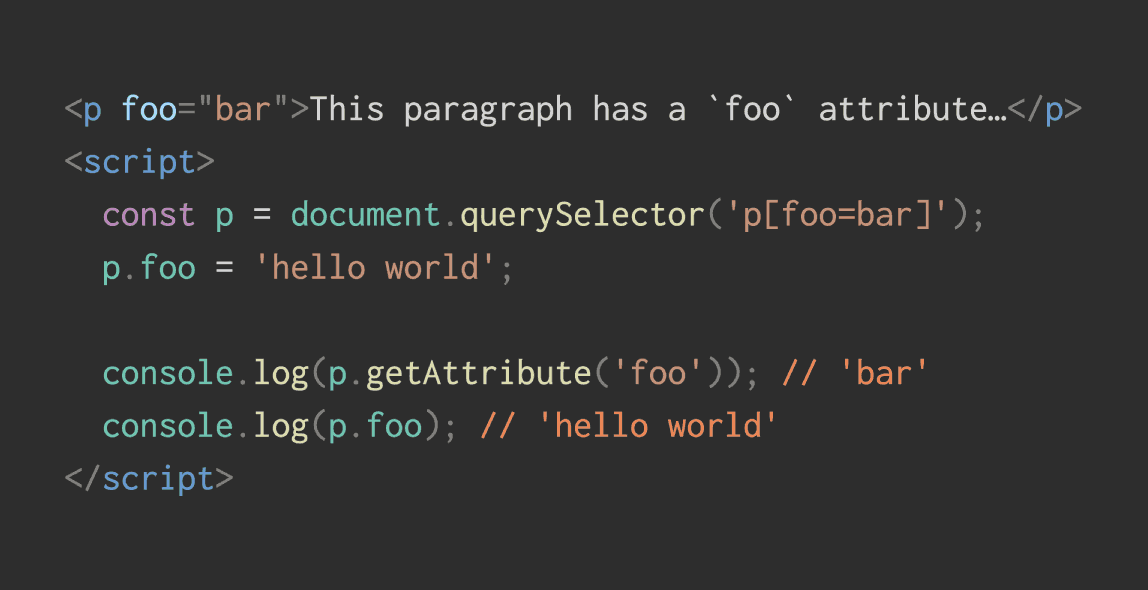
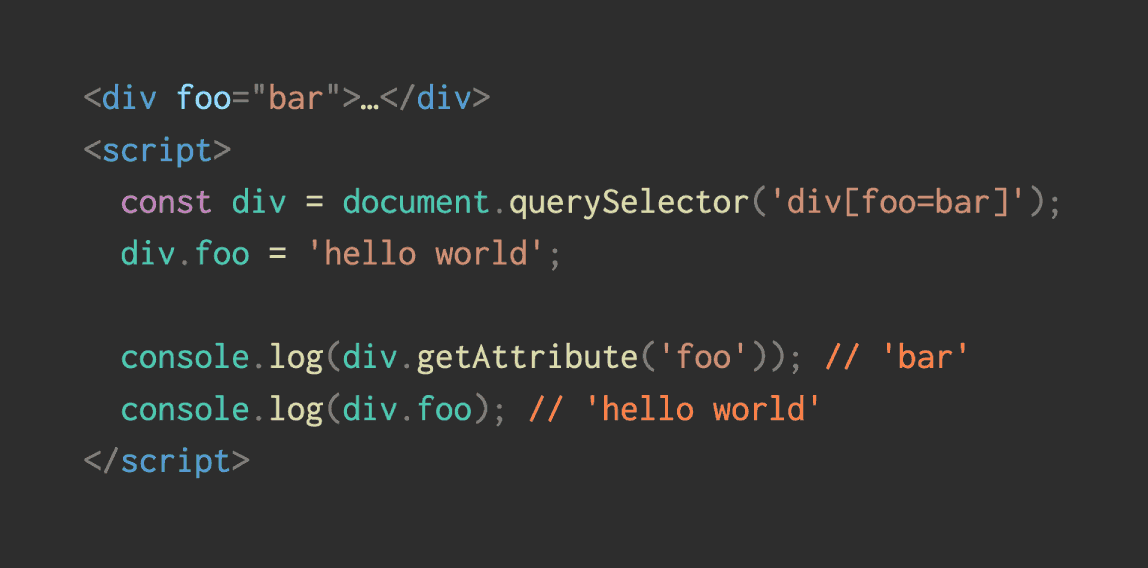
Various corrections

diff --git a/static-build/posts/2024/04/attributes-vs-properties/index.md b/static-build/posts/2024/04/attributes-vs-properties/index.md
@@ -6,18 +6,20 @@ meta: They're completely different, but totally related.
 image: 'asset-url:./img.png'
 ---
 
-<p foo="bar">This paragraph has a `foo` attribute and a `foo` property set to different values. This works because they're completely different things.</p>
-
-<script>document.querySelector('p[foo=bar]').foo = 'hello world';</script>
+Attributes and properties are _fundamentally_ different things. You can have an attribute and property of the same name set to different values. For example:
 
 ```html
-<p foo="bar">This paragraph has a `foo` attribute…</p>
+<div foo="bar">…</div>
 <script>
-  const p = document.querySelector('p[foo=bar]');
-  p.foo = 'hello world';
+  const div = document.querySelector('div[foo=bar]');
 
-  console.log(p.getAttribute('foo')); // 'bar'
-  console.log(p.foo); // 'hello world'
+  console.log(div.getAttribute('foo')); // 'bar'
+  console.log(div.foo); // undefined
+
+  div.foo = 'hello world';
+
+  console.log(div.getAttribute('foo')); // 'bar'
+  console.log(div.foo); // 'hello world'
 </script>
 ```
 
@@ -27,9 +29,9 @@ It seems like fewer and fewer developers know this, partially thanks to framewor
 <input className="…" type="…" aria-label="…" value="…" />
 ```
 
-If you do the above in a framework's templating language, you're using attribute-like syntax, but under the hood it'll sometimes be setting the property instead, and it differs from framework to framework. In some cases, it'll set a property _and_ an attribute as a side-effect, but that isn't the framework's fault.
+If you do the above in a framework's templating language, you're using attribute-like syntax, but under the hood it'll sometimes be setting the property instead, and when it does that differs from framework to framework. In some cases, it'll set a property _and_ an attribute as a side-effect, but that isn't the framework's fault.
 
-Most of the time, these distinctions don't matter. I think it's good that developers can have a long and happy career without caring about properties vs attributes. But, if you need to dig down into the DOM at a lower level, it helps to know. Even if you feel you know the difference, I hope I touch on a couple of details you hadn't considered. So let's dig in…
+Most of the time, these distinctions don't matter. I think it's good that developers can have a long and happy career without caring about the differences between properties and attributes. But, if you need to dig down into the DOM at a lower level, it helps to know. Even if you feel you know the difference, maybe I'll touch on a couple of details you hadn't considered. So let's dig in…
 
 # The key differences
 
@@ -48,7 +50,7 @@ div.hello = 'world';
 console.log(div.outerHTML); // '<div foo="bar"></div>'
 ```
 
-So when you're looking at the elements panel in DevTools, you're only seeing attributes on elements, not properties.
+So when you're looking at the elements panel in browser developer tools, you're only seeing attributes on elements, not properties.
 
 ## Value types
 
@@ -64,7 +66,7 @@ console.log(div.getAttribute('foo')); // '[object Object]'
 
 div.hello = obj;
 console.log(typeof div.hello); // 'object'
-console.log(div.hello); // {foo: 'bar'}
+console.log(div.hello); // { foo: 'bar' }
 ```
 
 ## Case sensitivity
@@ -89,7 +91,7 @@ Attribute names are case-insensitive, whereas property names are case-sensitive.
 
 However, attribute _values_ are case-sensitive.
 
-Here's where things start to get blurry:
+Ok, here's where things start to get blurry:
 
 # Reflection
 
@@ -110,15 +112,19 @@ Take a look at this:
 </script>
 ```
 
-That seems to contradict the first example in this post, but the above only works because `Element` has an `id` getter & setter that 'reflects' the `id` attribute.
+This seems to contradict the first example in the post, but the above only works because `Element` has an `id` getter & setter that 'reflects' the `id` attribute.
 
-When a property reflects an attribute, the attribute is the source of the data. When you set the property, it's updating the attribute. When you read from the property, it's reading the attribute.
+When a property reflects an attribute, the _attribute_ is the source of the data. When you set the property, it's updating the attribute. When you read from the property, it's reading the attribute.
 
-For convenience, most specs will create a property equivalent for every defined attribute. It didn't work in the example at the start of the article, because `foo` isn't a spec-defined attribute, so there isn't an equivalent spec-defined property that reflects it.
+For convenience, most specs will create a property equivalent for every defined attribute. It didn't work in the example at the start of the article, because `foo` isn't a spec-defined attribute, so there isn't a spec-defined `foo` property that reflects it.
 
 [Here's the spec for `<ol>`](https://html.spec.whatwg.org/multipage/grouping-content.html#the-ol-element). The "Content attributes" section defines the attributes, and the "DOM interface" defines the properties. If you click on `reversed` in the DOM interface, it takes you to this:
 
-> The `reversed` and `type` IDL attributes must [reflect](https://html.spec.whatwg.org/multipage/common-dom-interfaces.html#reflect) the respective content attributes of the same name.
+<blockquote class="quote">
+
+The `reversed` and `type` IDL attributes must [reflect](https://html.spec.whatwg.org/multipage/common-dom-interfaces.html#reflect) the respective content attributes of the same name.
+
+</blockquote>
 
 But not all of these reflectors are as simple as these.
 
@@ -129,12 +135,12 @@ Ok, this is relatively minor, but sometimes the property has a different name to
 In some cases it's just to add the kind of casing you'd expect from a property:
 
 - On `<img>`, `el.crossOrigin` reflects the `crossorigin` attribute.
-- On all elements, `el.ariaLabel` reflects the `aria-label` attribute (the aria reflectors didn't become cross browser until late 2023. Before that you could only use the attributes).
+- On all elements, `el.ariaLabel` reflects the `aria-label` attribute (the aria reflectors became cross browser in late 2023. Before that you could only use the attributes).
 
 In some cases, names had to be changed due to old JavaScript reserved words:
 
 - On all elements, `el.className` reflects the `class` attribute.
-- On `<label>`, `el.htmlFor` reflects the `label` attribute.
+- On `<label>`, `el.htmlFor` reflects the `for` attribute.
 
 ## Validation, type coercion, and defaults
 
@@ -187,16 +193,18 @@ Properties like `img.height` coerce the attribute value to a number. The setter 
 
 ## `value` on input fields
 
-`value` is a fun one. `value` is a property that doesn't have an equivalent attribute. That isn't unusual, there's loads of these (`offsetWidth`, `parentNode`, `isConnected`, `indeterminate` on checkboxes for some reason, and many more). It gets weird in this case because there _is_ a `value` attribute, but it's reflected by the `defaultValue` property.
+`value` is a fun one. There's a `value` property and a `value` attribute. However, the `value` property does not reflect the `value` attribute. Instead, the `defaultValue` property reflects the `value` attribute.
 
 I know, I know.
 
-Initially, the `value` property reads from the `defaultValue` property. Then, once the `value` property is set, or the value is changed by the user, it switches to reading from an internal value. It's as if it's implemented _roughly_ like this:
+In fact, the `value` property doesn't reflect _any_ attribute. That isn't unusual, there's loads of these (`offsetWidth`, `parentNode`, `indeterminate` on checkboxes for some reason, and many more).
+
+Initially, the `value` property defers to the `defaultValue` property. Then, once the `value` property is set, either via JavaScript or through user interaction, it switches to an internal value. It's as if it's implemented _roughly_ like this:
 
 ```js
 class HTMLInputElement extends HTMLElement {
   get defaultValue() {
-    return this.getAttribute('value') || '';
+    return this.getAttribute('value') ?? '';
   }
 
   set defaultValue(newValue) {
@@ -211,6 +219,11 @@ class HTMLInputElement extends HTMLElement {
 
   set value(newValue) {
     this.#value = String(newValue);
+  }
+
+  // This happens when the associated form resets
+  #reset() {
+    this.#value = undefined;
   }
 }
 ```
@@ -255,6 +268,8 @@ In my opinion, attributes should be for configuration, whereas properties can co
 
 In that sense, I think `<input value>` gets it right (aside from the naming). The `value` attribute configures the default value, whereas the `value` property gives you the current state.
 
+It also makes sense that validation applies when getting/setting properties, but never when getting/setting attributes.
+
 I say 'in my opinion', because a couple of recent HTML elements have done it differently.
 
 <details>
@@ -288,7 +303,7 @@ How do frameworks handle this?
 
 ## Preact and VueJS
 
-Aside from a predefined set of cases where they favour attributes, they'll set the prop as a property if `propName in element`, otherwise they'll set an attribute. Basically, they prefer properties over attributes. Their render-to-string methods do the opposite.
+Aside from a predefined set of cases where they favour attributes, they'll set the prop as a property if `propName in element`, otherwise they'll set an attribute. Basically, they prefer properties over attributes. Their render-to-string methods do the opposite, and ignore things that are property-only.
 
 - [`setProperty` in Preact](https://github.com/preactjs/preact/blob/aa95aa924dd5fe28798f2712acdabdc2e9fa38c9/src/diff/props.js#L37).
 - [`shouldSetAsProp` in VueJS](https://github.com/vuejs/core/blob/958286e3f050dc707ad1af293e91bfb190bdb191/packages/runtime-dom/src/patchProp.ts#L69).
@@ -297,7 +312,7 @@ Aside from a predefined set of cases where they favour attributes, they'll set t
 
 React does things the other way around. Aside from a predefined set of cases where they favour properties, they'll set an attribute. This makes their render-to-string method similar in logic.
 
-This explains why custom elements don't seem to work in React. Since they're custom, their properties aren't in React's 'predefined list', they don't work, and it'll only ever set attributes. This will be fixed in React 19, where they switch to the Preact/VueJS model for custom elements.
+This explains why custom elements don't seem to work in React. Since they're custom, their properties aren't in React's 'predefined list', so they're set as attributes instead. Anything that's property-only on the custom element simply won't work. This will be fixed in React 19, where they'll switch to the Preact/VueJS model for custom elements.
 
 The funny thing is, React popularised using `className` instead of `class` in what _looks like_ an attribute. But, even though you're using the property name rather than the attribute name, [React will set the `class` attribute under the hood](https://github.com/facebook/react/blob/699d03ce1a175442fe3443e1d1bed14f14e9c197/packages/react-dom-bindings/src/client/ReactDOMComponent.js#L388-L389).
 
@@ -308,7 +323,7 @@ The funny thing is, React popularised using `className` instead of `class` in wh
 Lit does things a little differently:
 
 ```html
-<input type="text" .value="…" />
+<input type="…" .value="…" />
 ```
 
 It keeps the extinction between attributes and properties, requiring you to prefix the name with `.` if you want to set the property rather than the attribute.
@@ -318,3 +333,5 @@ It keeps the extinction between attributes and properties, requiring you to pref
 # And that's yer lot
 
 That's pretty much everything I know about the difference between properties and attributes. If there's something I've missed, or you have a question, let me know in the comments below!
+
+Thanks to my [podcast husband](https://offthemainthread.tech/) [Surma](https://surma.dev/) for his usual reviewing skills.
